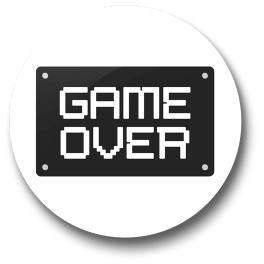
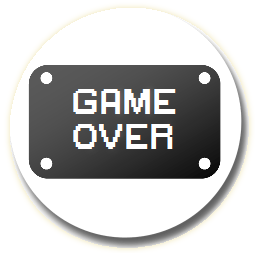
- zamiana zdjecia gameover - poprzednie bylo bledne

diff --git a/style/style.css b/style/style.css
@@ -382,6 +382,15 @@ body {
 .cover-final {
     transition: none;
 }
+
+#legenda {
+    background-image: url("../images/legenda.jpg");
+    width: 1200px;
+    height: 349px;
+    background-repeat: no-repeat;
+    position: absolute;
+    display: none;
+}
 .legend {
     width: 100%;
     height: 100%;
@@ -400,6 +409,11 @@ body {
 
 .informacje-o-dominice {
     background-image: url("../images/dominika-zdjecie-zespolu.png");
+}
+
+.info-dominika {
+    background-color: #d3cb73;
+    border: 1px solid black;
 }
 
 .informacje-o-michale-p {

diff --git a/index.html b/index.html
@@ -249,7 +249,6 @@
         origin: "bottom"
     });
 
-
 </script>
 </body>
 </html>
